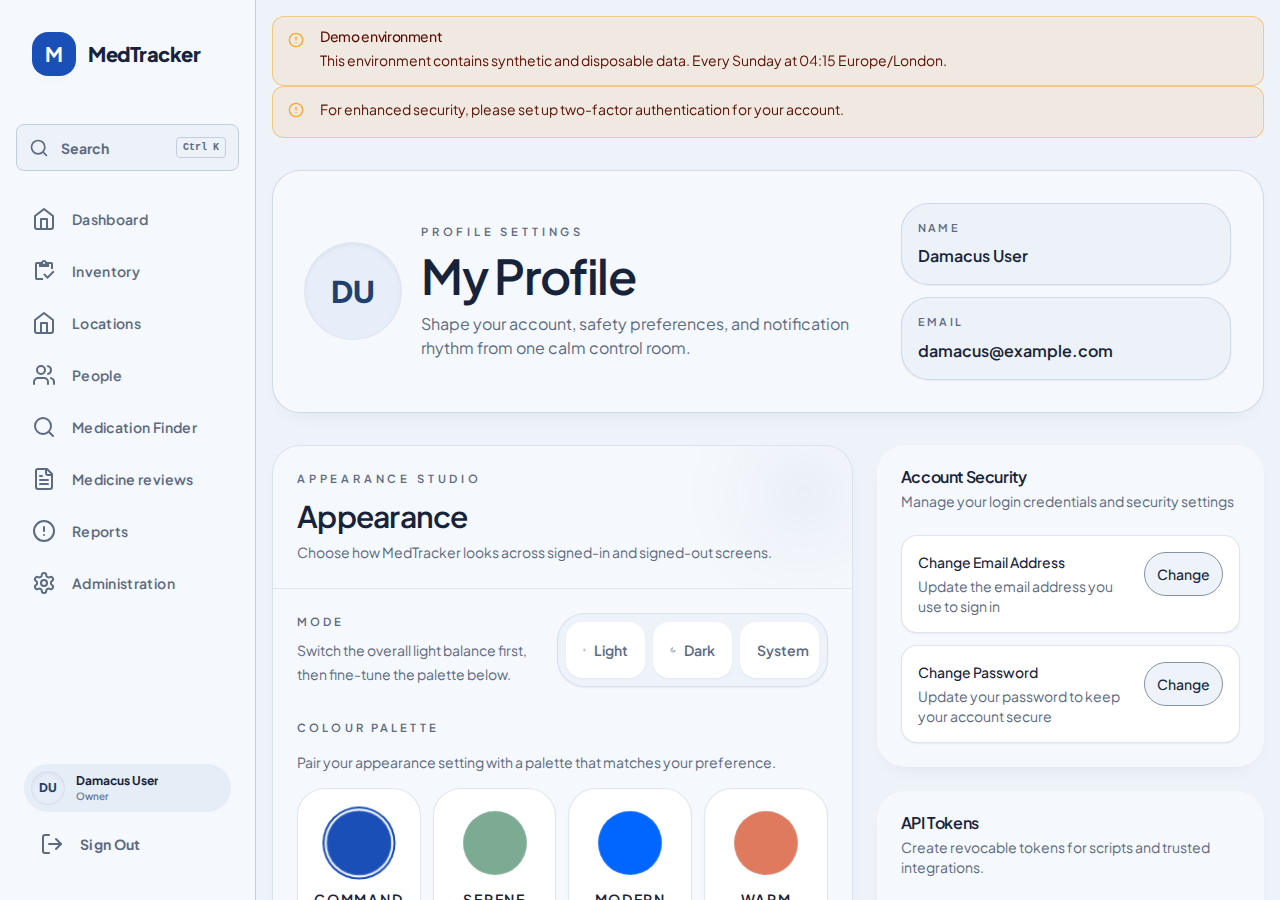
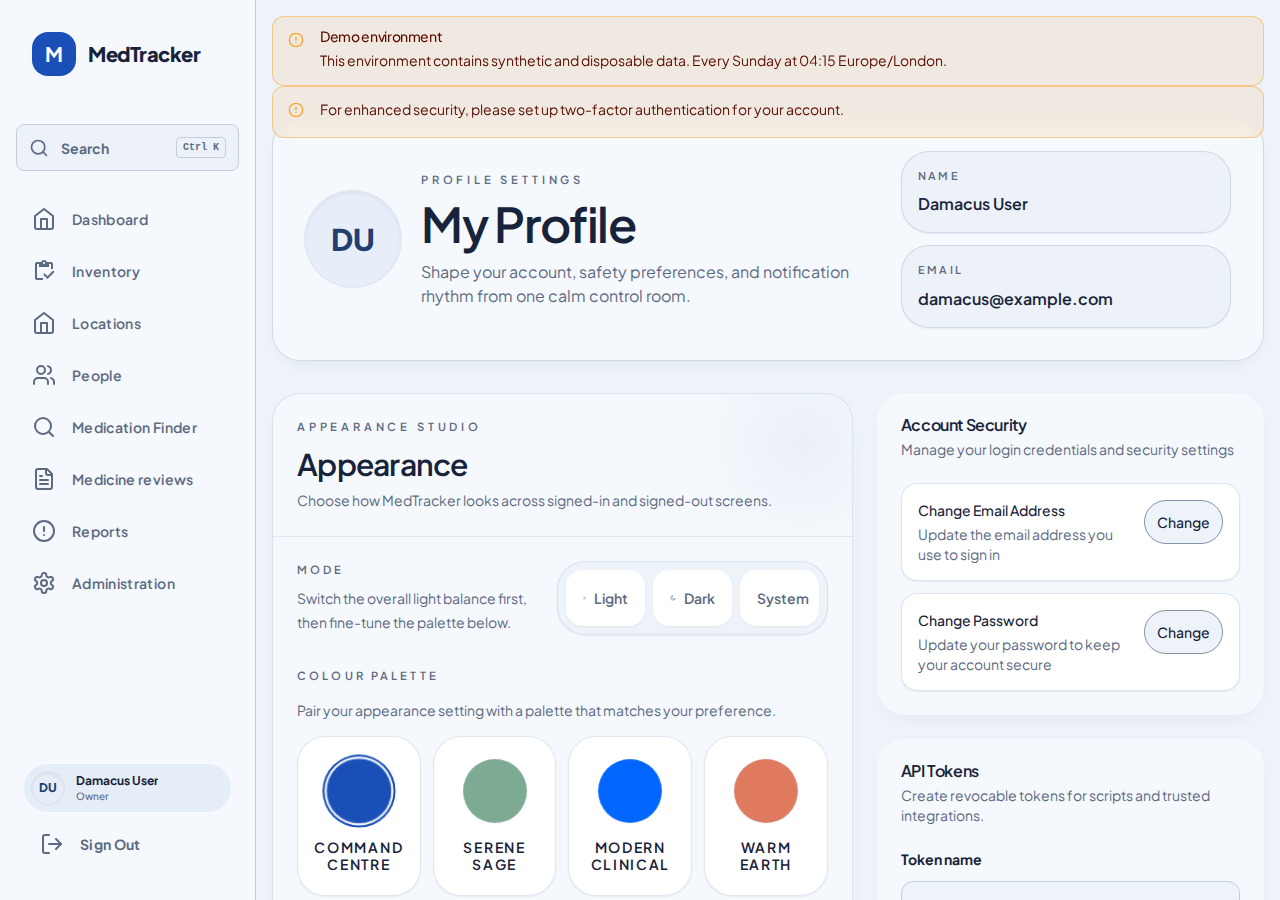
fix(profile): keep demo flash visible

diff --git a/spec/system/demo_mode_notice_spec.rb b/spec/system/demo_mode_notice_spec.rb
@@ -15,16 +15,32 @@ RSpec.describe 'Demo mode notice', :browser do
         );
         const demoRect = demo.getBoundingClientRect();
         const reminderRect = reminder.getBoundingClientRect();
-        const overlap = demoRect.top < reminderRect.bottom && reminderRect.top < demoRect.bottom;
+        const overlap = demoRect.left < reminderRect.right && reminderRect.left < demoRect.right &&
+          demoRect.top < reminderRect.bottom && reminderRect.top < demoRect.bottom;
         const visible = [demoRect, reminderRect].every((rect) =>
           rect.top >= 0 && rect.left >= 0 && rect.right <= window.innerWidth && rect.bottom <= window.innerHeight
         );
-        const unobscured = [demo, reminder].every((element) => {
+        const content = [demo.querySelector('#demo-environment-title'), reminder];
+        const unobscured = content.every((element) => {
           const rect = element.getBoundingClientRect();
           return element.contains(document.elementFromPoint(rect.left + (rect.width / 2), rect.top + (rect.height / 2)));
         });
 
         return { overlap, visible: visible && unobscured };
+      })()
+    JS
+  end
+
+  let(:profile_flash_viewport_script) do
+    <<~JS
+      (() => {
+        const flash = document.querySelector('#flash > div');
+        const rect = flash.getBoundingClientRect();
+
+        return {
+          fixed: getComputedStyle(flash).position === 'fixed',
+          visible: rect.top >= 0 && rect.left >= 0 && rect.right <= window.innerWidth && rect.bottom <= window.innerHeight
+        };
       })()
     JS
   end
@@ -77,7 +93,29 @@ RSpec.describe 'Demo mode notice', :browser do
     end
   end
 
+  it 'keeps Turbo profile feedback fixed in view after a scrolled mobile update' do
+    ENV['DEMO_MODE'] = 'true'
+    user = users(:damacus)
+    login_as(user)
+    page.current_window.resize_to(390, 844)
+    visit profile_path
+
+    time_zone = find_by_id('account_time_zone')
+    page.execute_script('arguments[0].scrollIntoView({ block: "center" })', time_zone)
+    expect(page.evaluate_script('window.scrollY')).to be_positive
+
+    select 'Pacific Time (US & Canada)', from: 'Time Zone'
+    click_button 'Save time zone'
+
+    expect(page).to have_text('Profile updated successfully')
+    expect(profile_flash_viewport_geometry).to include('fixed' => true, 'visible' => true)
+  end
+
   def profile_notice_geometry
     page.evaluate_script(profile_notice_geometry_script)
+  end
+
+  def profile_flash_viewport_geometry
+    page.evaluate_script(profile_flash_viewport_script)
   end
 end

diff --git a/app/components/layouts/flash.rb b/app/components/layouts/flash.rb
@@ -3,11 +3,10 @@
 module Components
   module Layouts
     class Flash < Components::Base
-      def initialize(notice: nil, alert: nil, warning: nil, fixed: !DemoMode.enabled?)
+      def initialize(notice: nil, alert: nil, warning: nil)
         @notice = notice
         @alert = alert
         @warning = warning
-        @fixed = fixed
         super()
       end
 
@@ -24,13 +23,13 @@ module Components
       private
 
       def container_class
-        return 'fixed inset-x-0 top-20 z-[60] pointer-events-none md:top-4' if @fixed
+        return 'fixed inset-x-0 top-20 z-[60] pointer-events-none md:top-4' unless DemoMode.enabled?
 
-        'relative z-40 px-4 md:ml-64'
+        'fixed inset-x-0 top-48 z-[60] pointer-events-none md:ml-64 md:top-28'
       end
 
       def content_class
-        @fixed ? 'container mx-auto px-4' : 'space-y-4'
+        'container mx-auto px-4'
       end
 
       def render_notice

diff --git a/spec/components/layouts/flash_spec.rb b/spec/components/layouts/flash_spec.rb
@@ -12,6 +12,20 @@ RSpec.describe Components::Layouts::Flash, type: :component do
     expect(rendered.to_html).to include('z-[60]')
   end
 
+  it 'offsets the fixed flash below the demo notice' do
+    original_value = ENV.fetch('DEMO_MODE', nil)
+    ENV['DEMO_MODE'] = 'true'
+
+    rendered = render_inline(described_class.new(notice: 'Saved'))
+
+    expect(rendered.to_html).to include('fixed')
+    expect(rendered.to_html).to include('top-48')
+    expect(rendered.to_html).to include('md:ml-64')
+    expect(rendered.to_html).to include('md:top-28')
+  ensure
+    original_value.nil? ? ENV.delete('DEMO_MODE') : ENV['DEMO_MODE'] = original_value
+  end
+
   describe 'notice flash' do
     it 'renders the notice message directly without redundant title' do
       rendered = render_inline(described_class.new(notice: 'Medication added successfully'))
